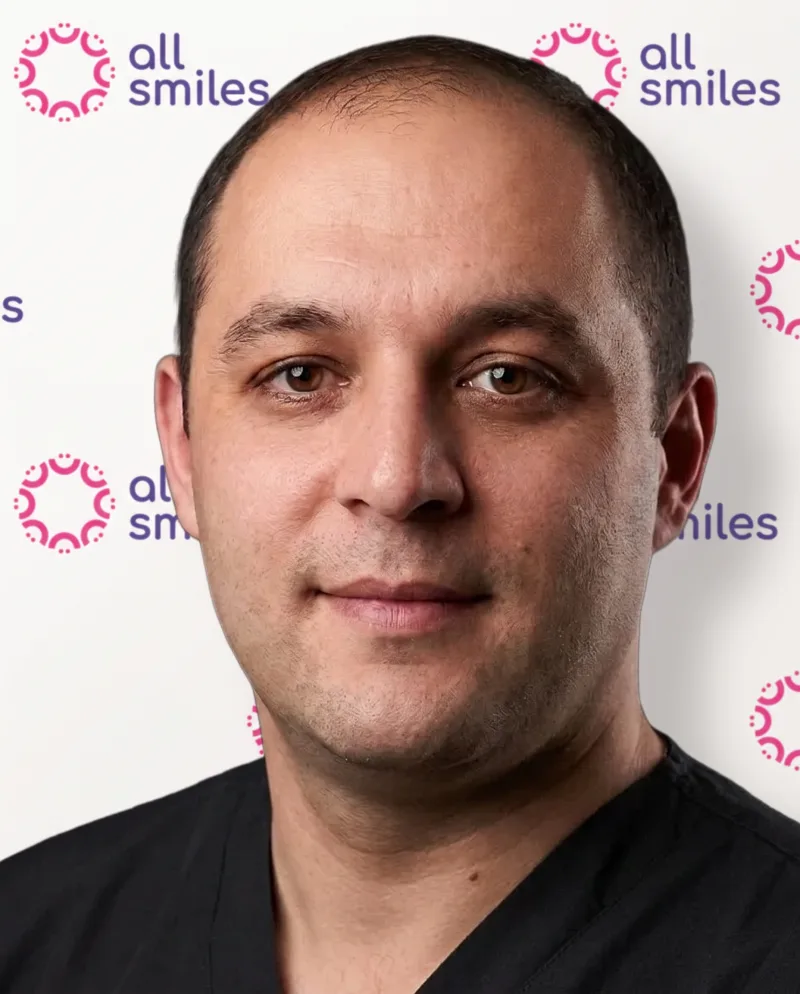
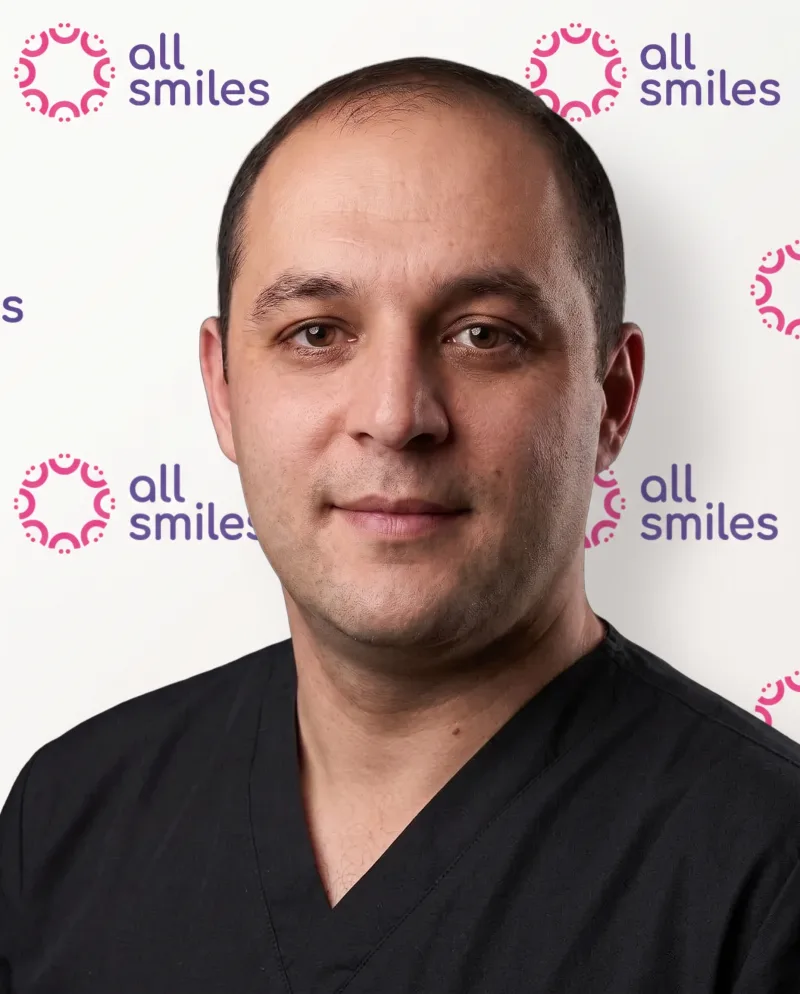
[FKLDSJ-106] Мобильная адаптация блоков в стиле приложения

diff --git a/sections.css b/sections.css
@@ -185,7 +185,7 @@ main .payment-estimate{font:400 14px/1.4 var(--ui);color:var(--ink-2);margin:0 0
 .payment-field>span{display:block;font-size:12px;line-height:1.4;color:var(--muted);margin-bottom:5px}
 .payment-field select{display:block;width:100%;min-width:0;appearance:none;border:0;background:transparent;padding:0 22px 0 0;border-radius:0;color:var(--ink);font:600 17px/1.4 var(--ui);cursor:pointer}
 .payment-field::after{content:'';position:absolute;right:17px;bottom:23px;width:8px;height:8px;border-right:2px solid var(--lavender);border-bottom:2px solid var(--lavender);transform:rotate(45deg);pointer-events:none}
-.payment-field:focus-within{border-color:var(--lavender)}.payment-field select:focus-visible{outline:2px solid var(--lavender);outline-offset:4px}
+.payment-field:focus-within{border-color:var(--pink)}.payment-field select:focus,.payment-field select:focus-visible{outline:none}
 .payment-total{display:flex;justify-content:space-between;align-items:center;gap:14px;padding:17px 20px;margin-bottom:15px;border-radius:12px;background:var(--paper)}
 .payment-total>span{font-size:17px;color:var(--ink-2)}.payment-total output{font-size:31px;line-height:1.25;font-weight:600;letter-spacing:-.04em;color:var(--pink);white-space:nowrap}
 .payment-button{display:flex;align-items:center;justify-content:center;gap:18px;width:100%;min-height:56px;padding:12px 18px;background:linear-gradient(100deg,var(--pink),var(--pink));border:0;border-radius:999px;font:600 15px/1.35 var(--ui);color:white;cursor:pointer}
@@ -289,7 +289,7 @@ main #match-quiz-title{font-weight:400;font-size:clamp(28px,2.6vw,44px);line-hei
 
 .opinion-section{padding:18px 28px 44px;background:linear-gradient(#fff,var(--paper));font-family:var(--ui);scroll-margin-top:100px}.opinion-wrap{max-width:1440px;margin:auto}.opinion-stages{list-style:none;display:grid;grid-template-columns:repeat(3,minmax(0,1fr));gap:66px;margin:0;padding:0 20px 30px}.opinion-stages>li{position:relative;min-width:0}.opinion-stages>li:not(:last-child):after{content:'›';position:absolute;right:-41px;top:26%;color:var(--violet);font-size:45px;font-weight:300;line-height:1}.opinion-stages>li>img{width:100%;aspect-ratio:1.92;height:auto;object-fit:cover;border-radius:12px;display:block}.opinion-stages>li>div{display:flex;gap:15px;align-items:center;margin-top:13px}.opinion-stage-number{display:grid;place-items:center;width:43px;height:43px;flex:none;border-radius:50%;background:linear-gradient(140deg,var(--lavender),var(--lavender));box-shadow:inset 0 1px 3px #f4f3f780;color:#fff;font-size:24px}.opinion-stages p{font:400 16px/1.3 var(--ui);color:var(--ink-2);margin:0}.opinion-card{display:grid;grid-template-columns:minmax(0,1.15fr) minmax(0,1fr);gap:36px;background:radial-gradient(ellipse at 30% 100%,var(--lav-10),var(--paper) 60%,var(--paper));padding:32px;border-radius:24px;overflow:hidden}.opinion-copy{position:relative;min-width:0;padding:0 6px;display:flex;flex-direction:column}.opinion-eyebrow{align-self:flex-start;display:inline-block;background:var(--pink);color:var(--pink-dark);padding:5px 15px;border-radius:999px;font-size:14px;font-weight:600;text-transform:uppercase;margin-bottom:10px}main #opinion-title{font:400 clamp(30px,2.9vw,43px)/1.15 var(--ui);letter-spacing:-.04em;color:var(--ink);margin:0 0 15px;max-width:none}main #opinion-title span{color:var(--pink);display:block;font-weight:500}.opinion-copy>p{font:400 18px/1.4 var(--ui);color:var(--ink-2);margin:0;max-width:520px}.opinion-documents{display:block;width:100%;height:260px;object-fit:contain;object-position:center top;margin:8px 0 -55px;transform:rotate(-3deg);filter:drop-shadow(0 10px 14px #5f5d6820)}.opinion-arrow{position:absolute;right:-20px;top:49%;width:88px;height:75px;color:var(--pink);pointer-events:none}.opinion-form{background:#fff;border-radius:22px;padding:28px;min-width:0;align-self:center}main .opinion-form h3{font:400 23px/1.25 var(--ui);color:var(--ink);margin:0 0 16px;letter-spacing:-.025em}.opinion-drop{position:relative;display:flex;flex-direction:column;align-items:center;justify-content:center;gap:10px;min-height:235px;border:1.5px dashed var(--grey);border-radius:12px;background:var(--paper);color:var(--ink-2);cursor:pointer;padding:20px;text-align:center;transition:border-color .2s,background .2s,transform .2s}.opinion-drop:hover,.opinion-drop.is-dragging,.opinion-drop:focus-within{background:var(--paper);border-color:var(--violet)}.opinion-drop.is-dragging{transform:scale(1.015)}.opinion-drop input{position:absolute;inset:0;width:100%;height:100%;opacity:0;cursor:pointer}.opinion-drop svg{width:74px;height:74px;color:var(--violet);pointer-events:none}.opinion-drop>span{font-size:15px}.opinion-drop small{font-size:11px;line-height:1.4;color:var(--muted)}.opinion-submit{border:0;display:flex;width:100%;justify-content:center;align-items:center;gap:18px;padding:17px 18px;min-height:60px;border-radius:999px;background:linear-gradient(120deg,var(--pink),var(--pink));font:500 17px/1.2 var(--ui);color:white;cursor:pointer;margin-top:19px;transition:box-shadow .2s,transform .2s}.opinion-submit>span{font-size:30px;line-height:.7}.opinion-submit:hover{box-shadow:0 8px 20px #e93d8d2c;transform:translateY(-1px)}.opinion-submit:focus-visible{outline:3px solid var(--lavender);outline-offset:4px}.opinion-consent{display:flex;align-items:center;gap:10px;margin-top:18px;font-size:12px;line-height:1.4;color:var(--ink-2)}.opinion-consent input{accent-color:var(--pink);width:19px;height:19px;flex:none;margin:0}.opinion-file-list{padding:0;margin:0;list-style:none;display:grid;gap:8px}.opinion-file-list:not(:empty){margin-top:14px}.opinion-file-list li{display:flex;align-items:center;justify-content:space-between;gap:10px;border-radius:8px;background:var(--paper);padding:9px 11px;color:var(--ink-2);font-size:13px}.opinion-file-list li>span{overflow-wrap:anywhere;min-width:0}.opinion-file-list button{border:0;flex:none;background:transparent;color:var(--pink);font-size:24px;line-height:1;cursor:pointer;width:28px;height:28px}.opinion-upload-status,.opinion-form .form-message{font-size:12px;color:var(--ink-2);line-height:1.4;margin:10px 0 0}.opinion-upload-status:empty,.opinion-form .form-message:empty{display:none}
 @media(max-width:1000px){.opinion-stages{gap:38px;padding-inline:8px}.opinion-stages>li:not(:last-child):after{right:-27px}.opinion-stages p{font-size:14px}.opinion-card{gap:24px;padding:26px}.opinion-form{padding:22px}.opinion-copy>p{font-size:16px}.opinion-arrow{width:65px;right:-20px;top:56%}.opinion-documents{height:240px}.opinion-submit{font-size:15px}}
-@media(max-width:650px){.opinion-section{padding:12px 10px 30px}.opinion-stages{grid-template-columns:1fr;gap:25px;padding:0 8px 28px}.opinion-stages>li>img{aspect-ratio:2.2}.opinion-stages>li:not(:last-child):after{display:none}.opinion-stages p{font-size:16px}.opinion-stages p br{display:none}.opinion-stages>li>div{margin-top:10px}.opinion-stage-number{width:36px;height:36px;font-size:21px}.opinion-card{grid-template-columns:1fr;gap:22px;padding:23px 14px 16px}.opinion-copy{padding-inline:6px}main #opinion-title{font-size:32px}.opinion-copy>p{font-size:16px}.opinion-documents{height:195px;margin:10px 0 -20px}.opinion-arrow{display:none}.opinion-form{padding:22px 17px;border-radius:18px}.opinion-drop{min-height:200px;padding:16px}.opinion-submit{font-size:15px;gap:10px;padding-inline:12px}.opinion-consent{font-size:11px}}
+@media(max-width:650px){.opinion-section{padding:10px 10px 26px}.opinion-stages{grid-template-columns:1fr;gap:12px;padding:0 2px 18px}.opinion-stages>li>img{aspect-ratio:2.8}.opinion-stages>li:not(:last-child):after{display:none}.opinion-stages p{font-size:15px}.opinion-stages p br{display:none}.opinion-stages>li>div{margin-top:8px;gap:12px}.opinion-stage-number{width:34px;height:34px;font-size:20px}.opinion-card{grid-template-columns:1fr;gap:16px;padding:22px 16px 18px}.opinion-copy{padding-inline:2px}main #opinion-title{font-size:27px}.opinion-copy>p{font-size:15px}.opinion-documents{display:none}.opinion-arrow{display:none}.opinion-form{padding:18px 15px;border-radius:18px}main .opinion-form h3{font-size:20px;margin-bottom:12px}.opinion-drop{min-height:140px;padding:14px;gap:6px}.opinion-drop svg{width:52px;height:52px}.opinion-submit{font-size:15px;gap:10px;padding-inline:12px;min-height:54px;margin-top:14px}.opinion-consent{font-size:11px;margin-top:12px}}
 @media(prefers-reduced-motion:reduce){.opinion-drop,.opinion-submit{transition:none}}
 
 .care-support{padding:34px 28px 44px;background:linear-gradient(#fff,var(--paper));font-family:var(--ui);scroll-margin-top:100px}.care-support-wrap{max-width:1440px;margin:auto}main #care-support-title{font:400 clamp(29px,2.8vw,42px)/1.18 var(--ui);letter-spacing:-.04em;color:var(--ink);max-width:none;margin:0 18px 13px}main .care-support-intro{font:400 18px/1.4 var(--ui);color:var(--ink-2);margin:0 18px 26px}.care-support-steps{list-style:none;display:grid;grid-template-columns:repeat(6,minmax(0,1fr));gap:10px;padding:0;margin:0}.care-support-step{min-width:0;border:1.5px solid var(--lav-10);border-radius:19px;padding:13px 11px 19px;background:#fff;box-shadow:0 6px 24px #5e539105}.care-support-visual{position:relative;height:145px;border-radius:13px;margin-bottom:13px;background:var(--paper)}.care-support-visual img{display:block;width:100%;height:100%;object-fit:cover;border-radius:13px}.care-support-step-4 img{object-position:right center}.care-support-number{position:absolute;z-index:1;top:-6px;left:-7px;display:grid;place-items:center;width:36px;height:36px;border-radius:50%;border:3px solid white;box-sizing:content-box;background:linear-gradient(125deg,var(--lavender),var(--pink));font:400 22px var(--ui);color:white}.care-support-shield{display:block;width:100%;height:100%;padding:18px;box-sizing:border-box}.care-support-step-6 .care-support-visual{background:linear-gradient(135deg,var(--paper),var(--pink-10))}main .care-support-step h3{font:500 16px/1.25 var(--ui);color:var(--ink);letter-spacing:-.025em;margin:0 2px 12px;min-height:40px}main .care-support-step p{font:400 14px/1.4 var(--ui);color:var(--ink-2);margin:0 2px}.care-support-step b{font-weight:500;color:var(--ink-2)}.care-contract{display:grid;grid-template-columns:.9fr 1.25fr;gap:34px;align-items:center;background:linear-gradient(110deg,var(--paper),var(--paper));border-radius:20px;margin:26px 12px 0;padding:18px 26px 18px 18px;overflow:hidden}.care-contract-art{min-width:0;height:250px;background:linear-gradient(120deg,var(--lav-10),var(--paper));border-radius:14px}.care-contract-art img{width:100%;height:100%;object-fit:contain;display:block;filter:drop-shadow(0 10px 12px #5e539126)}main .care-contract-copy h3{font:500 25px/1.25 var(--ui);letter-spacing:-.035em;color:var(--ink);margin:0 0 12px}.care-contract-copy>p{font:400 17px/1.4 var(--ui);color:var(--ink-2);max-width:530px;margin:0 0 17px}.care-contract-button{display:inline-flex;align-items:center;justify-content:center;gap:16px;min-height:58px;padding:15px 38px;border:0;border-radius:999px;background:linear-gradient(110deg,var(--pink),var(--pink));color:white;font:500 17px var(--ui);cursor:pointer;transition:transform .2s,box-shadow .2s}.care-contract-button>span{font-size:28px;line-height:.8}.care-contract-button:hover{transform:translateY(-2px);box-shadow:0 8px 20px #e93d8d2a}.care-contract-button:focus-visible{outline:3px solid var(--violet);outline-offset:4px}.care-contract-copy .care-contract-note{font-size:14px;margin:15px 0 0}
@@ -297,7 +297,7 @@ main #match-quiz-title{font-weight:400;font-size:clamp(28px,2.6vw,44px);line-hei
 @media(max-width:650px){.care-support{padding:26px 10px 32px}main #care-support-title{font-size:31px;margin-inline:8px}main .care-support-intro{font-size:16px;margin-inline:8px}.care-support-intro br{display:none}.care-support-steps{grid-template-columns:repeat(2,minmax(0,1fr));gap:10px}.care-support-step{padding:11px 9px 17px}.care-support-visual{height:126px}.care-support-number{width:29px;height:29px;font-size:18px}.care-support-step h3{font-size:16px!important}.care-support-step p{font-size:13px!important}.care-contract{grid-template-columns:1fr;padding:15px;gap:21px;margin-top:20px}.care-contract-art{height:220px}.care-contract-copy{padding:0 5px 8px}main .care-contract-copy h3{font-size:25px}.care-contract-button{width:100%;font-size:16px;padding-inline:20px}.care-contract-copy .care-contract-note{font-size:13px}}
 @media(prefers-reduced-motion:reduce){.care-contract-button{transition:none}}
 
-.closing-section{padding:38px 28px;background:#fff;font-family:var(--ui);scroll-margin-top:100px}.closing-container{max-width:1440px;margin:auto}.closing-section h2{font:500 clamp(28px,2.7vw,40px)/1.2 var(--ui);letter-spacing:-.035em;color:var(--ink);margin:0 0 13px;max-width:none}.closing-section .closing-lead{font:400 19px/1.4 var(--ui);color:var(--ink-2);margin:0 0 26px;max-width:1100px}#closing-team{background:linear-gradient(var(--paper),var(--paper))}.closing-chief{display:grid;grid-template-columns:330px minmax(0,1fr);gap:28px;background:white;padding:20px;border-radius:18px;align-items:center}.closing-chief .closing-photo{height:320px}.closing-photo img{width:100%;height:100%;object-fit:cover;object-position:center 22%;border-radius:12px;display:block}.closing-eyebrow{color:var(--lavender);text-transform:uppercase;font-size:14px;font-weight:500}.closing-chief h3{font:500 27px/1.2 var(--ui);color:var(--ink);margin:8px 0 12px}.closing-chief p{font:400 16px/1.45 var(--ui);color:var(--ink-2);margin:0 0 12px}.closing-chief .closing-chief-std{color:var(--ink-2);font-size:18px}.closing-more{background:var(--paper);border-radius:18px;color:var(--violet);margin-top:16px}.closing-more summary{padding:15px 20px;cursor:pointer;list-style:none;display:flex;align-items:center;gap:12px;font-size:15px}.closing-more summary:before{content:'♧';font-size:24px}.closing-more summary:after{content:'›';margin-left:auto;font-size:26px}.closing-more[open] summary:after{transform:rotate(90deg)}.closing-more ul{font-size:14px;line-height:1.6;margin:0;padding:0 25px 20px 42px}.closing-docs{display:grid;grid-template-columns:repeat(4,minmax(0,1fr));gap:18px;margin-top:20px}.closing-doc{padding:15px;background:white;border-radius:15px;min-width:0}.closing-doc .closing-photo{height:220px}.closing-doc h3{font:500 19px/1.25 var(--ui);color:var(--ink);letter-spacing:-.02em;margin:13px 3px 8px}.closing-doc small{display:block;font-size:14px;line-height:1.4;color:var(--muted);margin:0 3px}.closing-doc p{border-top:1px solid var(--lav-10);padding-top:12px;font:400 15px/1.4 var(--ui);color:var(--ink-2);margin:12px 3px 2px}#closing-faq{background:linear-gradient(#fff,var(--paper))}.closing-faq details{border-bottom:1px solid var(--lav-20)}.closing-faq details:last-child{border:0}.closing-faq summary{display:flex;gap:20px;align-items:center;justify-content:space-between;padding:21px 4px;list-style:none;cursor:pointer;color:var(--ink-2);font-size:18px}.closing-faq summary::-webkit-details-marker,.closing-more summary::-webkit-details-marker{display:none}.closing-faq summary:after{content:'+';font-size:28px;font-weight:300;color:var(--pink);flex:none;line-height:1}.closing-faq details[open] summary:after{content:'−'}.closing-faq details p{margin:0;padding:0 45px 22px 4px;color:var(--ink-2);line-height:1.6;font-size:16px;max-width:1050px}.closing-section summary:focus-visible,.closing-tabs button:focus-visible{outline:2px solid var(--lavender);outline-offset:3px}.closing-route-head{display:flex;justify-content:space-between;align-items:center;gap:20px}.closing-tabs{display:flex;gap:12px}.closing-tabs button{display:flex;align-items:center;gap:10px;white-space:nowrap;border:1px solid transparent;border-radius:999px;padding:10px 16px;background:var(--paper);color:var(--ink-2);font:400 14px var(--ui);cursor:pointer}.closing-tabs button[aria-selected=true]{background:#fff;border-color:var(--lav-10);color:var(--ink);box-shadow:0 4px 15px #5e539112}.closing-m{display:grid;place-items:center;width:27px;height:27px;border-radius:50%;background:var(--pink);color:white;font-style:normal;font-weight:600}.closing-m:before{content:'М'}.closing-tabs button[data-route=petrovsky] .closing-m{background:var(--muted)}.closing-route-steps{list-style:none;margin:0;padding:0;display:grid;grid-template-columns:repeat(3,minmax(0,1fr));gap:42px}.closing-route-steps li{position:relative;padding:16px;border:1px solid var(--lav-10);border-radius:16px;min-width:0;box-shadow:0 4px 15px #5f5d6808}.closing-route-steps li:not(:last-child):after{content:'→';position:absolute;top:28%;right:-34px;color:var(--pink);font-size:29px}.closing-route-steps figure{margin:0 0 16px;height:215px}.closing-route-steps figure img{width:100%;height:100%;object-fit:cover;border-radius:12px}.closing-route-steps b{display:block;font:500 18px/1.3 var(--ui);color:var(--ink);margin:0 0 10px}.closing-route-steps li>span{display:block;font-size:16px;line-height:1.45;color:var(--ink-2)}.closing-metro-ph{height:215px;display:grid;place-items:center;background:linear-gradient(135deg,var(--lav-10),var(--pink-10));border-radius:12px;margin-bottom:16px}.closing-metro-ph span{font-size:90px;color:var(--pink);font-weight:600}.closing-route-addr{display:flex;justify-content:center;align-items:center;flex-wrap:wrap;gap:8px 12px;background:var(--paper);border-radius:18px;padding:18px;font-size:14px;line-height:1.5;color:var(--ink-2);margin:25px 0 0}.closing-route-addr b{font-weight:500;color:var(--ink-2)}.closing-route-addr a{color:var(--ink-2);text-decoration:none;font-weight:500}.closing-addr-ico{width:22px;height:22px;object-fit:contain}.closing-consult{padding-top:20px;padding-bottom:36px}.closing-consult-card{position:relative;overflow:hidden;display:grid;grid-template-columns:1.25fr 1fr;gap:45px;align-items:center;background:radial-gradient(ellipse at 20% 20%,var(--lav-10),transparent 65%),var(--paper);padding:45px;border-radius:22px}.closing-consult-card>div{position:relative;z-index:1}.closing-consult-card h2{font-size:35px;max-width:590px}.closing-consult-card .closing-lead{font-size:19px;max-width:540px;color:var(--ink-2)}.closing-final-art{position:absolute;right:-75px;top:-100px;width:480px;height:340px;object-fit:contain;opacity:.24;pointer-events:none}.closing-final-list{list-style:none;padding:0;margin:20px 0 0;display:grid;gap:17px}.closing-final-list li{display:flex;gap:14px;align-items:center;font-size:15px;color:var(--ink-2);line-height:1.4}.closing-final-list li:before{content:'✓';display:grid;place-items:center;flex:none;width:38px;height:40px;border-radius:9px;background:#fff;color:var(--pink);font-size:22px}.closing-consult-fields{align-self:center;background:white;padding:24px;border-radius:16px;margin-top:60px}.closing-consult-fields input:not([type=checkbox]){display:block;box-sizing:border-box;width:100%;border:1px solid transparent;background:var(--paper);border-radius:12px;padding:17px 18px;margin-bottom:14px;color:var(--ink);font:400 16px var(--ui)}.closing-consult-fields input:focus-visible{outline:2px solid var(--lavender)}.closing-consult-fields .closing-btn{display:block;width:100%;border:0;border-radius:999px;background:linear-gradient(120deg,var(--pink),var(--pink));color:#fff;min-height:58px;padding:15px;font:500 16px var(--ui);cursor:pointer}.closing-consult-fields .closing-btn:hover{background:var(--pink)}.closing-consent{display:flex;gap:9px;align-items:center;color:var(--muted);font-size:11px;line-height:1.4;margin-top:16px}.closing-consent input{accent-color:var(--pink);width:19px;height:19px;flex:none;margin:0}.closing-consult-fields .form-message{font-size:13px;color:var(--ink-2);line-height:1.4}.closing-footer{padding:22px 28px 26px;background:#fff;font-family:var(--ui)}.closing-footer-grid{max-width:1440px;margin:auto;display:grid;grid-template-columns:250px 1fr;gap:35px;align-items:center;padding:25px 0 35px}.closing-footer-grid>a{text-decoration:none;color:var(--muted);font-size:13px;line-height:1.4}.closing-footer-grid>a img{display:block;width:190px;height:65px;object-fit:contain;object-position:left center}.closing-footer-grid>a span{display:block;margin:10px 0 0 48px}.closing-footer-grid p{font-size:14px;line-height:1.6;color:var(--ink-2);margin:0 0 12px}.closing-footer-grid p:first-child{color:var(--ink-2)}.closing-warning{max-width:1440px;border-top:1px solid var(--lav-20);margin:0 auto;padding-top:18px;text-align:center;text-transform:uppercase;letter-spacing:.23em;color:var(--muted);font-size:13px;line-height:1.7}
+.closing-section{padding:38px 28px;background:#fff;font-family:var(--ui);scroll-margin-top:100px}.closing-container{max-width:1440px;margin:auto}.closing-section h2{font:500 clamp(28px,2.7vw,40px)/1.2 var(--ui);letter-spacing:-.035em;color:var(--ink);margin:0 0 13px;max-width:none}.closing-section .closing-lead{font:400 19px/1.4 var(--ui);color:var(--ink-2);margin:0 0 26px;max-width:1100px}#closing-team{background:linear-gradient(var(--paper),var(--paper))}.closing-chief{display:grid;grid-template-columns:330px minmax(0,1fr);gap:28px;background:white;padding:20px;border-radius:18px;align-items:center}.closing-chief .closing-photo{height:320px}.closing-photo img{width:100%;height:100%;object-fit:cover;object-position:center 22%;border-radius:12px;display:block}.closing-eyebrow{color:var(--lavender);text-transform:uppercase;font-size:14px;font-weight:500}.closing-chief h3{font:500 27px/1.2 var(--ui);color:var(--ink);margin:8px 0 12px}.closing-chief p{font:400 16px/1.45 var(--ui);color:var(--ink-2);margin:0 0 12px}.closing-chief .closing-chief-std{color:var(--ink-2);font-size:18px}.closing-more{background:var(--paper);border-radius:18px;color:var(--violet);margin-top:16px}.closing-more summary{padding:15px 20px;cursor:pointer;list-style:none;display:flex;align-items:center;gap:12px;font-size:15px}.closing-more summary:before{content:'♧';font-size:24px}.closing-more summary:after{content:'›';margin-left:auto;font-size:26px}.closing-more[open] summary:after{transform:rotate(90deg)}.closing-more ul{font-size:14px;line-height:1.6;margin:0;padding:0 25px 20px 42px}.closing-docs{display:grid;grid-template-columns:repeat(4,minmax(0,1fr));gap:18px;margin-top:20px}.closing-doc{padding:15px;background:white;border-radius:15px;min-width:0}.closing-doc .closing-photo{height:220px}.closing-doc h3{font:500 19px/1.25 var(--ui);color:var(--ink);letter-spacing:-.02em;margin:13px 3px 8px}.closing-doc small{display:block;font-size:14px;line-height:1.4;color:var(--muted);margin:0 3px}.closing-doc p{border-top:1px solid var(--lav-10);padding-top:12px;font:400 15px/1.4 var(--ui);color:var(--ink-2);margin:12px 3px 2px}#closing-faq{background:linear-gradient(#fff,var(--paper))}.closing-faq details{border-bottom:1px solid var(--lav-20)}.closing-faq details:last-child{border:0}.closing-faq summary{display:flex;gap:20px;align-items:center;justify-content:space-between;padding:21px 4px;list-style:none;cursor:pointer;color:var(--ink-2);font-size:18px}.closing-faq summary::-webkit-details-marker,.closing-more summary::-webkit-details-marker{display:none}.closing-faq summary:after{content:'+';font-size:28px;font-weight:300;color:var(--pink);flex:none;line-height:1}.closing-faq details[open] summary:after{content:'−'}.closing-faq details p{margin:0;padding:0 45px 22px 4px;color:var(--ink-2);line-height:1.6;font-size:16px;max-width:1050px}.closing-section summary:focus-visible,.closing-tabs button:focus-visible{outline:2px solid var(--lavender);outline-offset:3px}.closing-route-head{display:flex;justify-content:space-between;align-items:center;gap:20px}.closing-tabs{display:flex;gap:12px}.closing-tabs button{display:flex;align-items:center;gap:10px;white-space:nowrap;border:1px solid transparent;border-radius:999px;padding:10px 16px;background:var(--paper);color:var(--ink-2);font:400 14px var(--ui);cursor:pointer}.closing-tabs button[aria-selected=true]{background:#fff;border-color:var(--lav-10);color:var(--ink);box-shadow:0 4px 15px #5e539112}.closing-m{display:grid;place-items:center;width:27px;height:27px;border-radius:50%;background:var(--pink);color:white;font-style:normal;font-weight:600}.closing-m:before{content:'М'}.closing-tabs button[data-route=petrovsky] .closing-m{background:var(--muted)}.closing-route-steps{list-style:none;margin:0;padding:0;display:grid;grid-template-columns:repeat(3,minmax(0,1fr));gap:42px}.closing-route-steps li{position:relative;padding:16px;border:1px solid var(--lav-10);border-radius:16px;min-width:0;box-shadow:0 4px 15px #5f5d6808}.closing-route-steps li:not(:last-child):after{content:'→';position:absolute;top:28%;right:-34px;color:var(--pink);font-size:29px}.closing-route-steps figure{margin:0 0 16px;height:215px}.closing-route-steps figure img{width:100%;height:100%;object-fit:cover;border-radius:12px}.closing-route-steps b{display:block;font:500 18px/1.3 var(--ui);color:var(--ink);margin:0 0 10px}.closing-route-steps li>span{display:block;font-size:16px;line-height:1.45;color:var(--ink-2)}.closing-metro-ph{height:215px;display:grid;place-items:center;background:linear-gradient(135deg,var(--lav-10),var(--pink-10));border-radius:12px;margin-bottom:16px}.closing-metro-ph span{font-size:90px;color:var(--pink);font-weight:600}.closing-route-addr{display:flex;justify-content:center;align-items:center;flex-wrap:wrap;gap:8px 12px;background:var(--paper);border-radius:18px;padding:18px;font-size:14px;line-height:1.5;color:var(--ink-2);margin:25px 0 0}.closing-route-addr b{font-weight:500;color:var(--ink-2)}.closing-route-addr a{color:var(--ink-2);text-decoration:none;font-weight:500}.closing-addr-ico{width:22px;height:22px;object-fit:contain}.closing-consult{padding-top:20px;padding-bottom:36px}.closing-consult-card{position:relative;overflow:hidden;display:grid;grid-template-columns:1.25fr 1fr;gap:45px;align-items:center;background:radial-gradient(ellipse at 20% 20%,var(--lav-10),transparent 65%),var(--paper);padding:45px;border-radius:22px}.closing-consult-card>div{position:relative;z-index:1}.closing-consult-card h2{font-size:35px;max-width:590px}.closing-consult-card .closing-lead{font-size:19px;max-width:540px;color:var(--ink-2)}.closing-final-art{position:absolute;right:-75px;top:-100px;width:480px;height:340px;object-fit:contain;opacity:.24;pointer-events:none}.closing-final-list{list-style:none;padding:0;margin:20px 0 0;display:grid;gap:17px}.closing-final-list li{display:flex;gap:14px;align-items:center;font-size:15px;color:var(--ink-2);line-height:1.4}.closing-final-list li:before{content:'✓';display:grid;place-items:center;flex:none;width:38px;height:40px;border-radius:9px;background:#fff;color:var(--pink);font-size:22px}.closing-consult-fields{align-self:center;background:white;padding:24px;border-radius:16px;margin-top:60px}.closing-consult-fields input:not([type=checkbox]){display:block;box-sizing:border-box;width:100%;border:1px solid transparent;background:var(--paper);border-radius:12px;padding:17px 18px;margin-bottom:14px;color:var(--ink);font:400 16px var(--ui)}.closing-consult-fields input:focus-visible{outline:2px solid var(--lavender)}.closing-consult-fields .closing-btn{display:block;width:100%;border:0;border-radius:999px;background:linear-gradient(120deg,var(--pink),var(--pink));color:#fff;min-height:58px;padding:15px;font:500 16px var(--ui);cursor:pointer}.closing-consult-fields .closing-btn:hover{background:var(--pink)}.closing-consent{display:flex;gap:9px;align-items:flex-start;color:var(--muted);font-size:11px;line-height:1.4;margin-top:16px}.closing-consent input{accent-color:var(--pink);width:19px;height:19px;flex:none;margin:1px 0 0}.closing-consult-fields .form-message{font-size:13px;color:var(--ink-2);line-height:1.4}.closing-footer{padding:22px 28px 26px;background:#fff;font-family:var(--ui)}.closing-footer-grid{max-width:1440px;margin:auto;display:grid;grid-template-columns:250px 1fr;gap:35px;align-items:center;padding:25px 0 35px}.closing-footer-grid>a{text-decoration:none;color:var(--muted);font-size:13px;line-height:1.4}.closing-footer-grid>a img{display:block;width:190px;height:65px;object-fit:contain;object-position:left center}.closing-footer-grid>a span{display:block;margin:10px 0 0 48px}.closing-footer-grid p{font-size:14px;line-height:1.6;color:var(--ink-2);margin:0 0 12px}.closing-footer-grid p:first-child{color:var(--ink-2)}.closing-warning{max-width:1440px;border-top:1px solid var(--lav-20);margin:0 auto;padding-top:18px;text-align:center;text-transform:uppercase;letter-spacing:.23em;color:var(--muted);font-size:13px;line-height:1.7}
 @media(max-width:1000px){.closing-section{padding:30px 18px}.closing-chief{grid-template-columns:250px 1fr;gap:20px}.closing-chief .closing-photo{height:290px}.closing-docs{gap:12px}.closing-doc .closing-photo{height:180px}.closing-doc h3{font-size:17px}.closing-doc p{font-size:14px}.closing-route-steps{gap:25px}.closing-route-steps li{padding:12px}.closing-route-steps li:not(:last-child):after{right:-24px;font-size:23px}.closing-route-steps figure,.closing-metro-ph{height:180px}.closing-route-steps b{font-size:16px}.closing-route-steps li>span{font-size:14px}.closing-consult-card{gap:25px;padding:30px}.closing-consult-card h2{font-size:29px}.closing-consult-card .closing-lead{font-size:17px}.closing-consult-fields{padding:20px}.closing-consult-fields .closing-btn{font-size:14px}.closing-footer-grid{grid-template-columns:210px 1fr}}
 @media(max-width:650px){.closing-section{padding:27px 12px}.closing-section h2{font-size:29px}.closing-section .closing-lead{font-size:16px}.closing-chief{grid-template-columns:1fr;padding:15px}.closing-chief .closing-photo{height:320px}.closing-chief .closing-photo img{object-position:center 20%}.closing-chief h3{font-size:25px}.closing-chief p{font-size:14px}.closing-chief .closing-chief-std{font-size:16px}.closing-eyebrow{font-size:12px}.closing-docs{grid-template-columns:repeat(2,minmax(0,1fr));gap:10px}.closing-doc{padding:10px}.closing-doc .closing-photo{height:160px}.closing-doc h3{font-size:16px}.closing-doc small,.closing-doc p{font-size:13px}.closing-faq summary{font-size:16px;padding:18px 2px;gap:12px}.closing-faq details p{font-size:14px;padding-right:20px}.closing-route-head{display:block}.closing-tabs{gap:8px;margin:0 0 20px}.closing-tabs button{padding:8px 11px;font-size:12px;gap:7px}.closing-route-steps{grid-template-columns:1fr;gap:16px}.closing-route-steps li{padding:14px}.closing-route-steps li:not(:last-child):after{display:none}.closing-route-steps figure,.closing-metro-ph{height:210px}.closing-route-steps b{font-size:18px}.closing-route-steps li>span{font-size:16px}.closing-route-addr{justify-content:flex-start;font-size:12px;padding:15px;gap:7px}.closing-consult-card{grid-template-columns:1fr;gap:22px;padding:25px 18px}.closing-consult-card h2{font-size:29px}.closing-consult-fields{margin:0;padding:20px 15px}.closing-final-art{width:350px;right:-150px;top:-65px;opacity:.13}.closing-final-list li{font-size:14px}.closing-footer{padding:15px 18px}.closing-footer-grid{grid-template-columns:1fr;gap:24px;padding-bottom:20px}.closing-footer-grid p{font-size:12px;overflow-wrap:anywhere}.closing-warning{font-size:10px;letter-spacing:.17em}}
 .closing-more summary:before,.closing-final-list li:before{display:none}.closing-more summary>svg{width:24px;height:24px;flex:none}.closing-benefit-icon{display:grid;place-items:center;width:38px;height:40px;flex:none;border-radius:9px;background:#fff;color:var(--pink)}.closing-benefit-icon svg{width:24px;height:24px}.closing-final-list strong{color:var(--pink);font-weight:500}.closing-final-list li{display:block;position:relative;padding:6px 0 6px 52px;min-height:40px}.closing-benefit-icon{position:absolute;left:0;top:0}
@@ -470,8 +470,10 @@ main #care-title{margin-bottom:18px}
 .match-quiz-bars i{transition:background .45s var(--ease)}
 .match-quiz-option{transition:border-color .25s,background .25s,transform .25s var(--ease)}
 .match-quiz-option:hover{transform:translateY(-2px)}
-.closing-faq details p{animation:faq-in .35s var(--ease)}
-@keyframes faq-in{from{opacity:0;transform:translateY(-6px)}}
+/* плавное открытие/закрытие FAQ: анимируем высоту ::details-content (совр. Chrome; иначе — обычный details) */
+.closing-faq{interpolate-size:allow-keywords}
+.closing-faq details::details-content{height:0;overflow:hidden;transition:height .32s var(--ease),content-visibility .32s var(--ease) allow-discrete}
+.closing-faq details[open]::details-content{height:auto}
 @keyframes pop{0%{transform:scale(.8);opacity:0}100%{transform:none;opacity:1}}
 @media(prefers-reduced-motion:reduce){
   .anim-on .rv{opacity:1;transform:none;transition:none}
@@ -629,7 +631,7 @@ main .smile-aesthetic-lead{grid-column:2;margin:0 0 10px;max-width:none;font-siz
 .closing-map-links a.closing-map-route{background:var(--pink);border-color:var(--pink);color:#fff}
 .closing-map-links a.closing-map-route:hover{background:var(--pink-ink,#c82f74);border-color:var(--pink-ink,#c82f74);color:#fff}
 .closing-map-links img{width:22px;height:22px;object-fit:contain}
-@media(max-width:760px){.closing-map-frame{height:300px;border-radius:16px}.closing-map-links a{flex:1;justify-content:center;padding:0 12px}}
+@media(max-width:760px){.closing-map-frame{height:300px;border-radius:16px}.closing-map-links{flex-direction:column}.closing-map-links a{width:100%;justify-content:center;padding:0 14px;min-height:52px}}
 
 
 /* ====================================================================

diff --git a/index.html b/index.html
@@ -292,7 +292,7 @@
         <a class="closing-doc" href="vrachi/akchurin/"><div class="closing-photo"><img src="../assets/doctors/akchurin.webp?v=5" alt="Акчурин Руслан Дамирович" loading="lazy"></div><h3>Акчурин Руслан Дамирович</h3><small>Стоматолог‑хирург · стаж 18 лет</small><p>Имплантация, хирургический этап, удаление зубов любой сложности.</p><span class="closing-doc-more">Подробнее о враче ›</span></a>
         <a class="closing-doc" href="vrachi/tsahaev/"><div class="closing-photo"><img src="../assets/doctors/tsahaev.webp?v=5" alt="Цахаев Марат Халилович" loading="lazy"></div><h3>Цахаев Марат Халилович</h3><small>Стоматолог‑хирург‑имплантолог · стаж 11 лет</small><p>Имплантация All‑on‑4, хирургический этап, сложные случаи.</p><span class="closing-doc-more">Подробнее о враче ›</span></a>
         <a class="closing-doc" href="vrachi/arkallaev-ramazan/"><div class="closing-photo"><img src="../assets/doctors/arkallaev-ramazan.webp?v=5" alt="Аркаллаев Рамазан Рашидович" loading="lazy"></div><h3>Аркаллаев Рамазан Рашидович</h3><small>Стоматолог‑хирург‑имплантолог · стаж 6 лет</small><p>Имплантация All‑on‑4/6, костная пластика, удаление зубов.</p><span class="closing-doc-more">Подробнее о враче ›</span></a>
-        <a class="closing-doc" href="vrachi/petrosyan/"><div class="closing-photo"><img src="../assets/doctors/petrosyan.webp?v=5" alt="Петросян Сергей Гагикович" loading="lazy"></div><h3>Петросян Сергей Гагикович</h3><small>Стоматолог‑ортопед · стаж 6 лет</small><p>Протезирование на имплантах, виниры, коронки, All‑on‑4/6.</p><span class="closing-doc-more">Подробнее о враче ›</span></a>
+        <a class="closing-doc" href="vrachi/petrosyan/"><div class="closing-photo"><img src="../assets/doctors/petrosyan.webp?v=6" alt="Петросян Сергей Гагикович" loading="lazy"></div><h3>Петросян Сергей Гагикович</h3><small>Стоматолог‑ортопед · стаж 6 лет</small><p>Протезирование на имплантах, виниры, коронки, All‑on‑4/6.</p><span class="closing-doc-more">Подробнее о враче ›</span></a>
         <a class="closing-doc" href="vrachi/dzhanumova/"><div class="closing-photo"><img src="../assets/doctors/dzhanumova.webp?v=5" alt="Джанумова Валерия Александровна" loading="lazy"></div><h3>Джанумова Валерия Александровна</h3><small>Стоматолог‑ортопед · стаж 9 лет</small><p>Протезирование, коронки, реставрация и лечение зубов.</p><span class="closing-doc-more">Подробнее о враче ›</span></a>
         <a class="closing-doc" href="vrachi/amaev/"><div class="closing-photo"><img src="../assets/doctors/amaev.webp?v=5" alt="Амаев Камал Шарифович" loading="lazy"></div><h3>Амаев Камал Шарифович</h3><small>Стоматолог‑ортопед · стаж 8 лет</small><p>Протезирование на имплантах, виниры, коронки, съёмные и несъёмные протезы.</p><span class="closing-doc-more">Подробнее о враче ›</span></a>
         <a class="closing-doc" href="vrachi/arkallaev-magomed/"><div class="closing-photo"><img src="../assets/doctors/arkallaev-magomed.webp?v=5" alt="Аркаллаев Магомед Рашидович" loading="lazy"></div><h3>Аркаллаев Магомед Рашидович</h3><small>Стоматолог‑ортопед · стаж 6 лет</small><p>Эстетические реставрации, тотальное протезирование, виниры и коронки.</p><span class="closing-doc-more">Подробнее о враче ›</span></a>

diff --git a/mobile.js b/mobile.js
@@ -82,7 +82,7 @@
       { img: A + 'doctors/akchurin.webp?v=5', cap: 'Акчурин Руслан Дамирович', sub: 'Стоматолог-хирург · стаж 18 лет' },
       { img: A + 'doctors/tsahaev.webp?v=5', cap: 'Цахаев Марат Халилович', sub: 'Стоматолог-хирург-имплантолог · стаж 11 лет' },
       { img: A + 'doctors/arkallaev-ramazan.webp?v=5', cap: 'Аркаллаев Рамазан Рашидович', sub: 'Стоматолог-хирург-имплантолог · стаж 6 лет' },
-      { img: A + 'doctors/petrosyan.webp?v=5', cap: 'Петросян Сергей Гагикович', sub: 'Стоматолог-ортопед · стаж 6 лет' },
+      { img: A + 'doctors/petrosyan.webp?v=6', cap: 'Петросян Сергей Гагикович', sub: 'Стоматолог-ортопед · стаж 6 лет' },
       { img: A + 'doctors/dzhanumova.webp?v=5', cap: 'Джанумова Валерия Александровна', sub: 'Стоматолог-ортопед · стаж 9 лет' },
       { img: A + 'doctors/amaev.webp?v=5', cap: 'Амаев Камал Шарифович', sub: 'Стоматолог-ортопед · стаж 8 лет' },
       { img: A + 'doctors/arkallaev-magomed.webp?v=5', cap: 'Аркаллаев Магомед Рашидович', sub: 'Стоматолог-ортопед · стаж 6 лет' },
@@ -93,13 +93,6 @@
       { img: A + 'stories/clinic-ct.webp', cap: 'Диагностика на месте', sub: '3D КТ с ИИ-анализом – 0 ₽' },
       { img: A + 'stories/clinic-surgery.webp', cap: 'Операционная', sub: 'Имплантация и протез – в один визит' },
       { img: A + 'stories/clinic-opening.webp', cap: 'Клиника у метро «Динамо»', sub: 'Квартал ВТБ Арена Парк, Ленинградский проспект, 36' },
-    ] },
-    { id: 'route', title: 'Маршрут', cover: A + 'route/din-01.webp', slides: [
-      { img: A + 'route/din-01.webp', tag: '1', cap: 'Выход из метро «Динамо»', sub: 'К Ленинградскому проспекту' },
-      { img: A + 'route/din-02.webp', tag: '2', cap: 'Стадион «Динамо» · ВТБ Арена', sub: 'Идём вдоль арены' },
-      { img: A + 'route/din-03.webp', tag: '3', cap: 'Площадь ВТБ Арена Парк', sub: 'Вдоль проспекта до строения 40' },
-      { img: A + 'route/din-06.webp', tag: '4', cap: 'Вдоль Ленинградского проспекта', sub: 'Почти пришли' },
-      { img: A + 'route/din-09.webp', tag: '5', cap: 'Вход в клинику, 1 этаж', sub: 'Две минуты пешком от метро' },
     ] },
   ];
   const SEEN_KEY = 'as_stories_seen';
@@ -301,7 +294,7 @@
   }
 
   /* ---------- точки под лентами ---------- */
-  const RAILS = '.results-works,.care-grid,.reviews-grid,.payment-benefits,.solution-cards,.opinion-stages,.care-support-steps,.closing-docs';
+  const RAILS = '.results-works,.care-grid,.reviews-grid,.payment-benefits,.solution-cards,.implant-brands-grid,.opinion-stages,.care-support-steps,.closing-docs';
   $$(RAILS).forEach(r => {
     if (r.closest('.m-sheet')) return;
     const n = r.children.length; if (n < 2) return;

diff --git a/script.js b/script.js
@@ -156,11 +156,12 @@
     const mqNarrow = matchMedia('(max-width:760px)');
     const fit = () => {
       stage.style.minHeight = '';
-      // на телефоне фиксированную высоту сцены не держим: короткий шаг под высокий (форма
-      // с телефоном и мессенджерами) давал огромный пустой провал. Каждый шаг — своей высоты.
-      if (mqNarrow.matches) return;
+      // высоту держим постоянной, чтобы шаги не прыгали. На телефоне — по самому высокому
+      // ВОПРОСУ (без финальной формы с телефоном/мессенджерами), иначе под форму зиял провал.
+      // На десктопе — по всем шагам, как было.
+      const pool = mqNarrow.matches ? steps : [...steps, contact];
       let h = 0;
-      [...steps, contact].forEach(el => {
+      pool.forEach(el => {
         const was = el.hidden; el.hidden = false; el.style.position = 'absolute'; el.style.visibility = 'hidden'; el.style.width = stage.clientWidth + 'px';
         h = Math.max(h, el.offsetHeight);
         el.hidden = was; el.style.position = el.style.visibility = el.style.width = '';

diff --git a/mobile.css b/mobile.css
@@ -176,9 +176,6 @@ main .solution-intro,main .implant-brands-intro,main .care-support-intro,main .p
 .opinion-stages>*,.care-support-steps>*,.closing-docs>*,.closing-route-steps>*{scroll-snap-align:start;min-width:0}
 .closing-route-steps[hidden]{display:none!important}
 .opinion-stages>li:not(:last-child)::after,.closing-route-steps li::after{display:none!important}
-/* импланты — вертикальной колонкой, а не горизонтальной каруселью: высокие карточки в overflow-x конфликтовали с вертикальной прокруткой и дёргали страницу на Android */
-.implant-brands-grid{grid-template-columns:1fr!important;grid-auto-flow:row!important;grid-auto-columns:auto!important;overflow:visible!important;margin:0!important;padding:0!important;gap:15px!important}
-.implant-brands-grid>*{min-width:0}
 .m-dots{display:flex;justify-content:center;gap:6px;margin:-2px 0 10px}
 .m-dots i{width:6px;height:6px;border-radius:3px;background:#d8d7de;transition:width .25s,background .25s}
 .m-dots i.on{width:18px;background:#e93d8d}

diff --git a/vrachi/petrosyan/index.html b/vrachi/petrosyan/index.html
@@ -21,7 +21,7 @@
 <main class="doc-wrap" id="doctor">
  <nav class="doc-crumbs" aria-label="Хлебные крошки"><a href="../../">Главная</a> / <a href="../../#closing-team">Врачи</a> / <span>Петросян Сергей Гагикович</span></nav>
  <div class="doc-hero">
-  <figure class="doc-photo"><img src="../../../assets/doctors/petrosyan.webp?v=5" alt="Петросян Сергей Гагикович" width="760" height="950"></figure>
+  <figure class="doc-photo"><img src="../../../assets/doctors/petrosyan.webp?v=6" alt="Петросян Сергей Гагикович" width="760" height="950"></figure>
   <div class="doc-info">
    <div class="doc-eyebrow">СТОМАТОЛОГ-ОРТОПЕД</div>
    <h1>Петросян Сергей Гагикович</h1>
